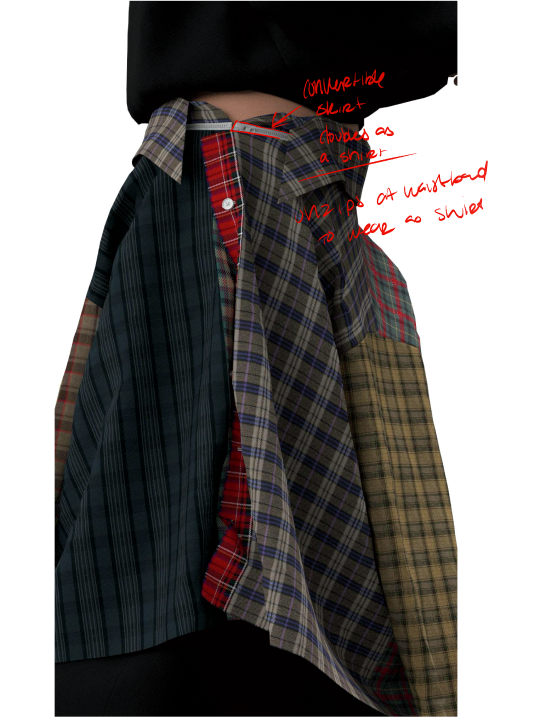
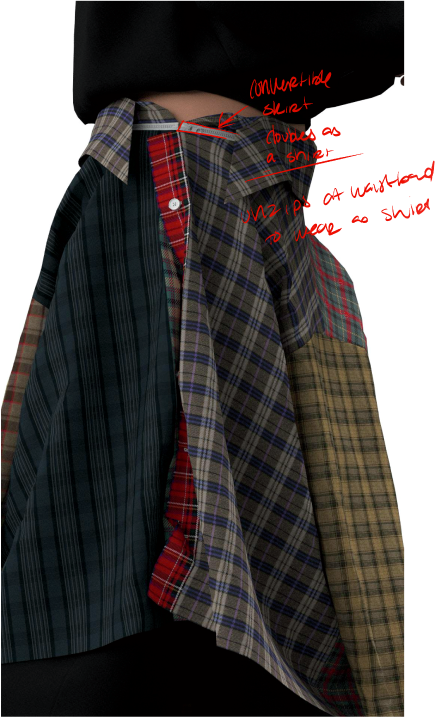
555555

diff --git a/css/mobile.css b/css/mobile.css
@@ -600,8 +600,8 @@ main {
    REFLECTIONS 05  ========================================================= */
 
 .reflections-of-displacement-05 {
-  left: var(--mobile-margin);
-  bottom: calc(509.9343 / 956 * 100%);
+  left: calc(34.365 / 956 * 100%);
+  bottom: calc(509.935 / 956 * 100%);
   width: calc(83.077  / 440 * 100%);
 }
 
@@ -620,9 +620,9 @@ main {
    REFLECTIONS 07   ========================================================= */
 
 .reflections-of-displacement-07 {
-  left: calc(96.8821 / 440 * 100%);
-  bottom: calc(515.7185 / 956 * 100%);
-  width: calc(95 / 440 * 100%);
+  left: calc(90.185 / 440 * 100%);
+  bottom: calc(511.944 / 956 * 100%);
+  width: calc(114.368 / 440 * 100%);
 }
 
 
@@ -642,9 +642,9 @@ main {
 ========================================================= */
 
 .reflections-of-displacement-09 {
-  left: calc(251.0111 / 440 * 100%);
-  bottom: calc(472.3861 / 956 * 100%);
-  width: calc(37.3319 / 440 * 100%);
+  right: calc(138.6126 / 440 * 100%);
+  bottom: calc(447.34 / 956 * 100%);
+  width: calc(50.3764  / 440 * 100%);
 }
 
 
@@ -653,9 +653,9 @@ main {
 ========================================================= */
 
 .reflections-of-displacement-10 {
-  right: calc(42.037 / 440 * 100%);
-  bottom: calc(427.7084 / 956 * 100%);
-  width: calc(110.277 / 440 * 100%);
+  right: calc(30.0894 / 440 * 100%);
+  bottom: calc(397.7626 / 956 * 100%);
+  width: calc(121.5676 / 440 * 100%);
 }
 
 
@@ -664,9 +664,9 @@ main {
 ========================================================= */
 
 .reflections-of-displacement-11 {
-  left: calc(158.292 / 440 * 100%);
-  bottom: calc(353.6298 / 956 * 100%);
-  width: calc(101.3239 / 440 * 100%);
+  left: calc(152.0291 / 440 * 100%);
+  bottom: calc(353.576 / 956 * 100%);
+  width: calc(106 / 440 * 100%);
 }
 
 /*
@@ -677,8 +677,8 @@ main {
 
 .reflections-of-displacement-12 {
   right: var(--mobile-margin);
-  bottom: calc(318.1391 / 956 * 100%);
-  width: calc(210 / 440 * 100%);
+  bottom: calc(279.0306 / 956 * 100%);
+  width: calc(288 / 440 * 100%);
 }
 
 
@@ -688,8 +688,8 @@ main {
 
 .reflections-of-displacement-13 {
   left: var(--mobile-margin);
-  bottom: calc(186.939 / 956 * 100%);
-  width: calc(156.135 / 440 * 100%);
+  bottom: calc(182.266 / 956 * 100%);
+  width: calc(159.493 / 440 * 100%);
 }
 
 
@@ -698,9 +698,9 @@ main {
 ========================================================= */
 
 .reflections-of-displacement-14 {
-  right: calc(150 / 440 * 100%);
-  bottom: calc(250/ 956 * 100%);
-  width: calc(112.9796 / 440 * 100%);
+  right: calc(128.1383 / 440 * 100%);
+  bottom: calc(230.9555 / 956 * 100%);
+  width: calc(145.3806 / 440 * 100%);
 }
 
 

diff --git a/index.html b/index.html
@@ -17,7 +17,7 @@
 
     <link
         rel="stylesheet"
-        href="css/mobile.css?v=20260805-page-fix-5"
+        href="css/mobile.css?v=20260805-page-fix-6"
         media="screen and (max-width:767px),
                 screen and (orientation:portrait)"
     >
